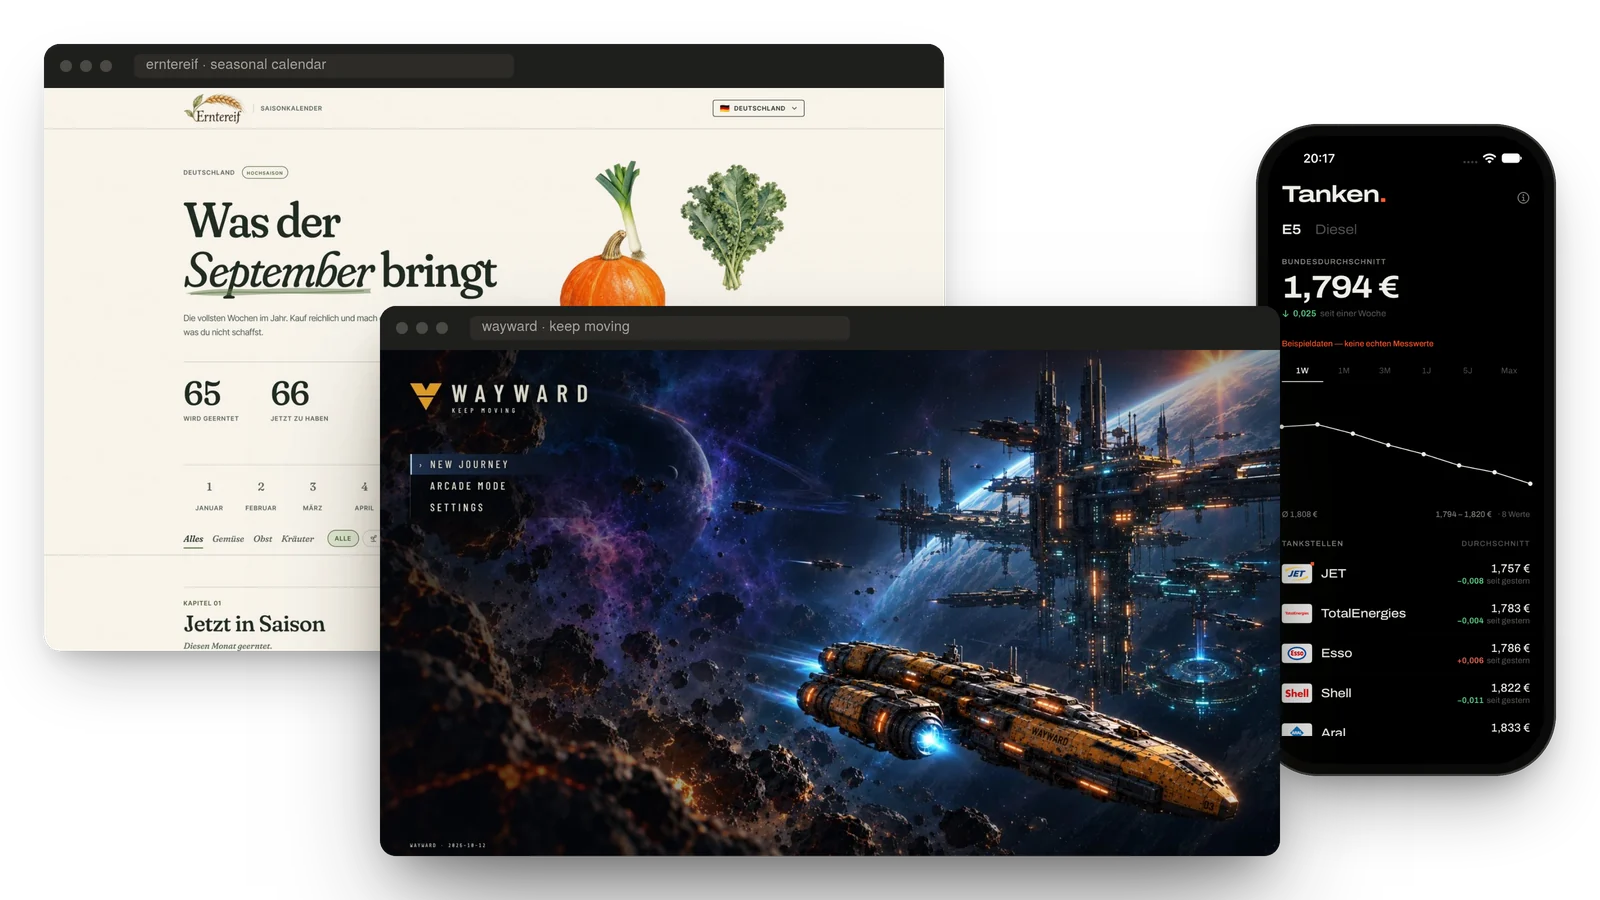
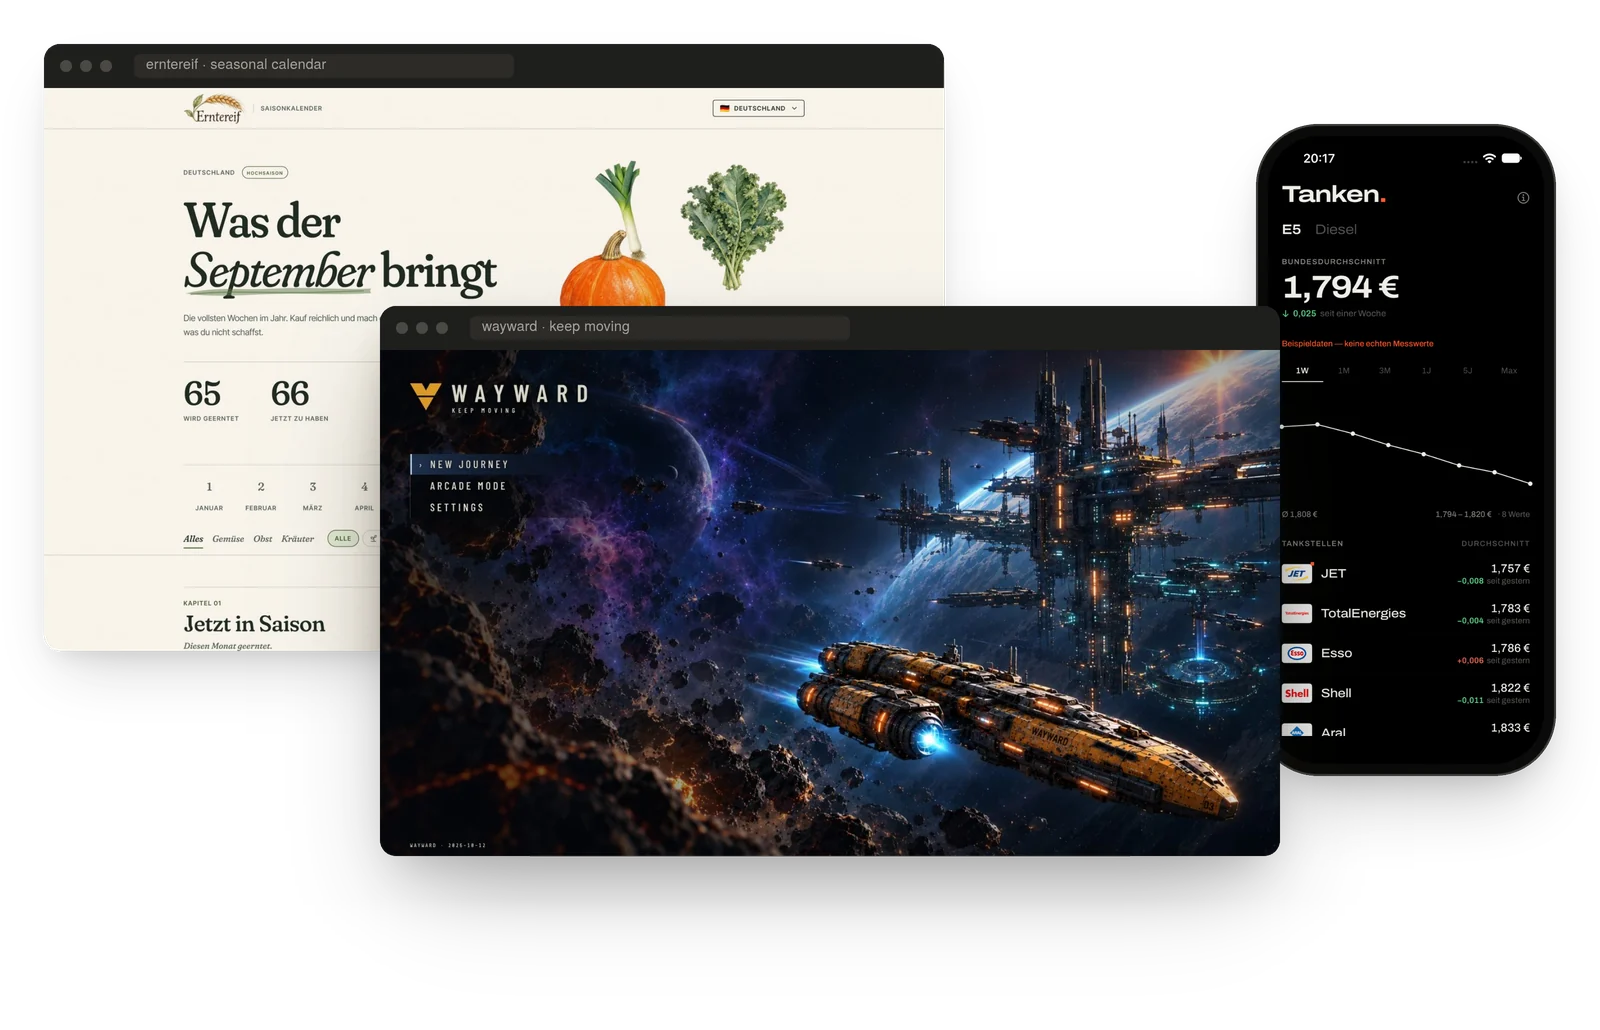
Homepage AI experiments: softer shadows, room for them to fade
Claude-Session: https://claude.ai/code/session_017KcQSN8T94GWujnXjhRMne

diff --git a/index.html b/index.html
@@ -283,7 +283,7 @@
     <a href="lab.html" class="wproj is-solo">
       <div class="wproj-body">
         <div class="wproj-fig is-art">
-          <img src="img/side-projects.webp" alt="The Wayward game menu in a browser window, in front of the Erntereif seasonal calendar in a second window and Tanken fuel prices on an iPhone" loading="lazy" width="1600" height="900">
+          <img src="img/side-projects.webp" alt="The Wayward game menu in a browser window, in front of the Erntereif seasonal calendar in a second window and Tanken fuel prices on an iPhone" loading="lazy" width="1600" height="1030">
         </div>
         <div class="wproj-txt">
           <h3 class="wproj-t is-long">Asteroids, seasonal veg, <em>and diesel prices.</em></h3>

diff --git a/css/swiss.css b/css/swiss.css
@@ -1863,8 +1863,10 @@ html.theme-anim,html.theme-anim *{
    use to separate one project from the next. */
 .wproj.is-solo{padding-top:0}
 .wproj.is-solo::before{display:none}
-/* Its image is a cut-out with its own shadows, so no backing sheet behind it. */
-.wproj.is-solo .wproj-fig{background:none}
+/* Its image is a cut-out with its own soft shadows, so no backing sheet and
+   no fixed crop: the shadow needs its full height to fade out. */
+.wproj.is-solo .wproj-fig{background:none;aspect-ratio:auto;overflow:visible;contain:none}
+.wproj.is-solo .wproj-fig img{height:auto}
 @media (min-width:901px){
   .wproj.is-solo .wproj-fig{grid-column:6 / 13}
   .wproj.is-solo .wproj-txt{grid-column:1 / 6}
